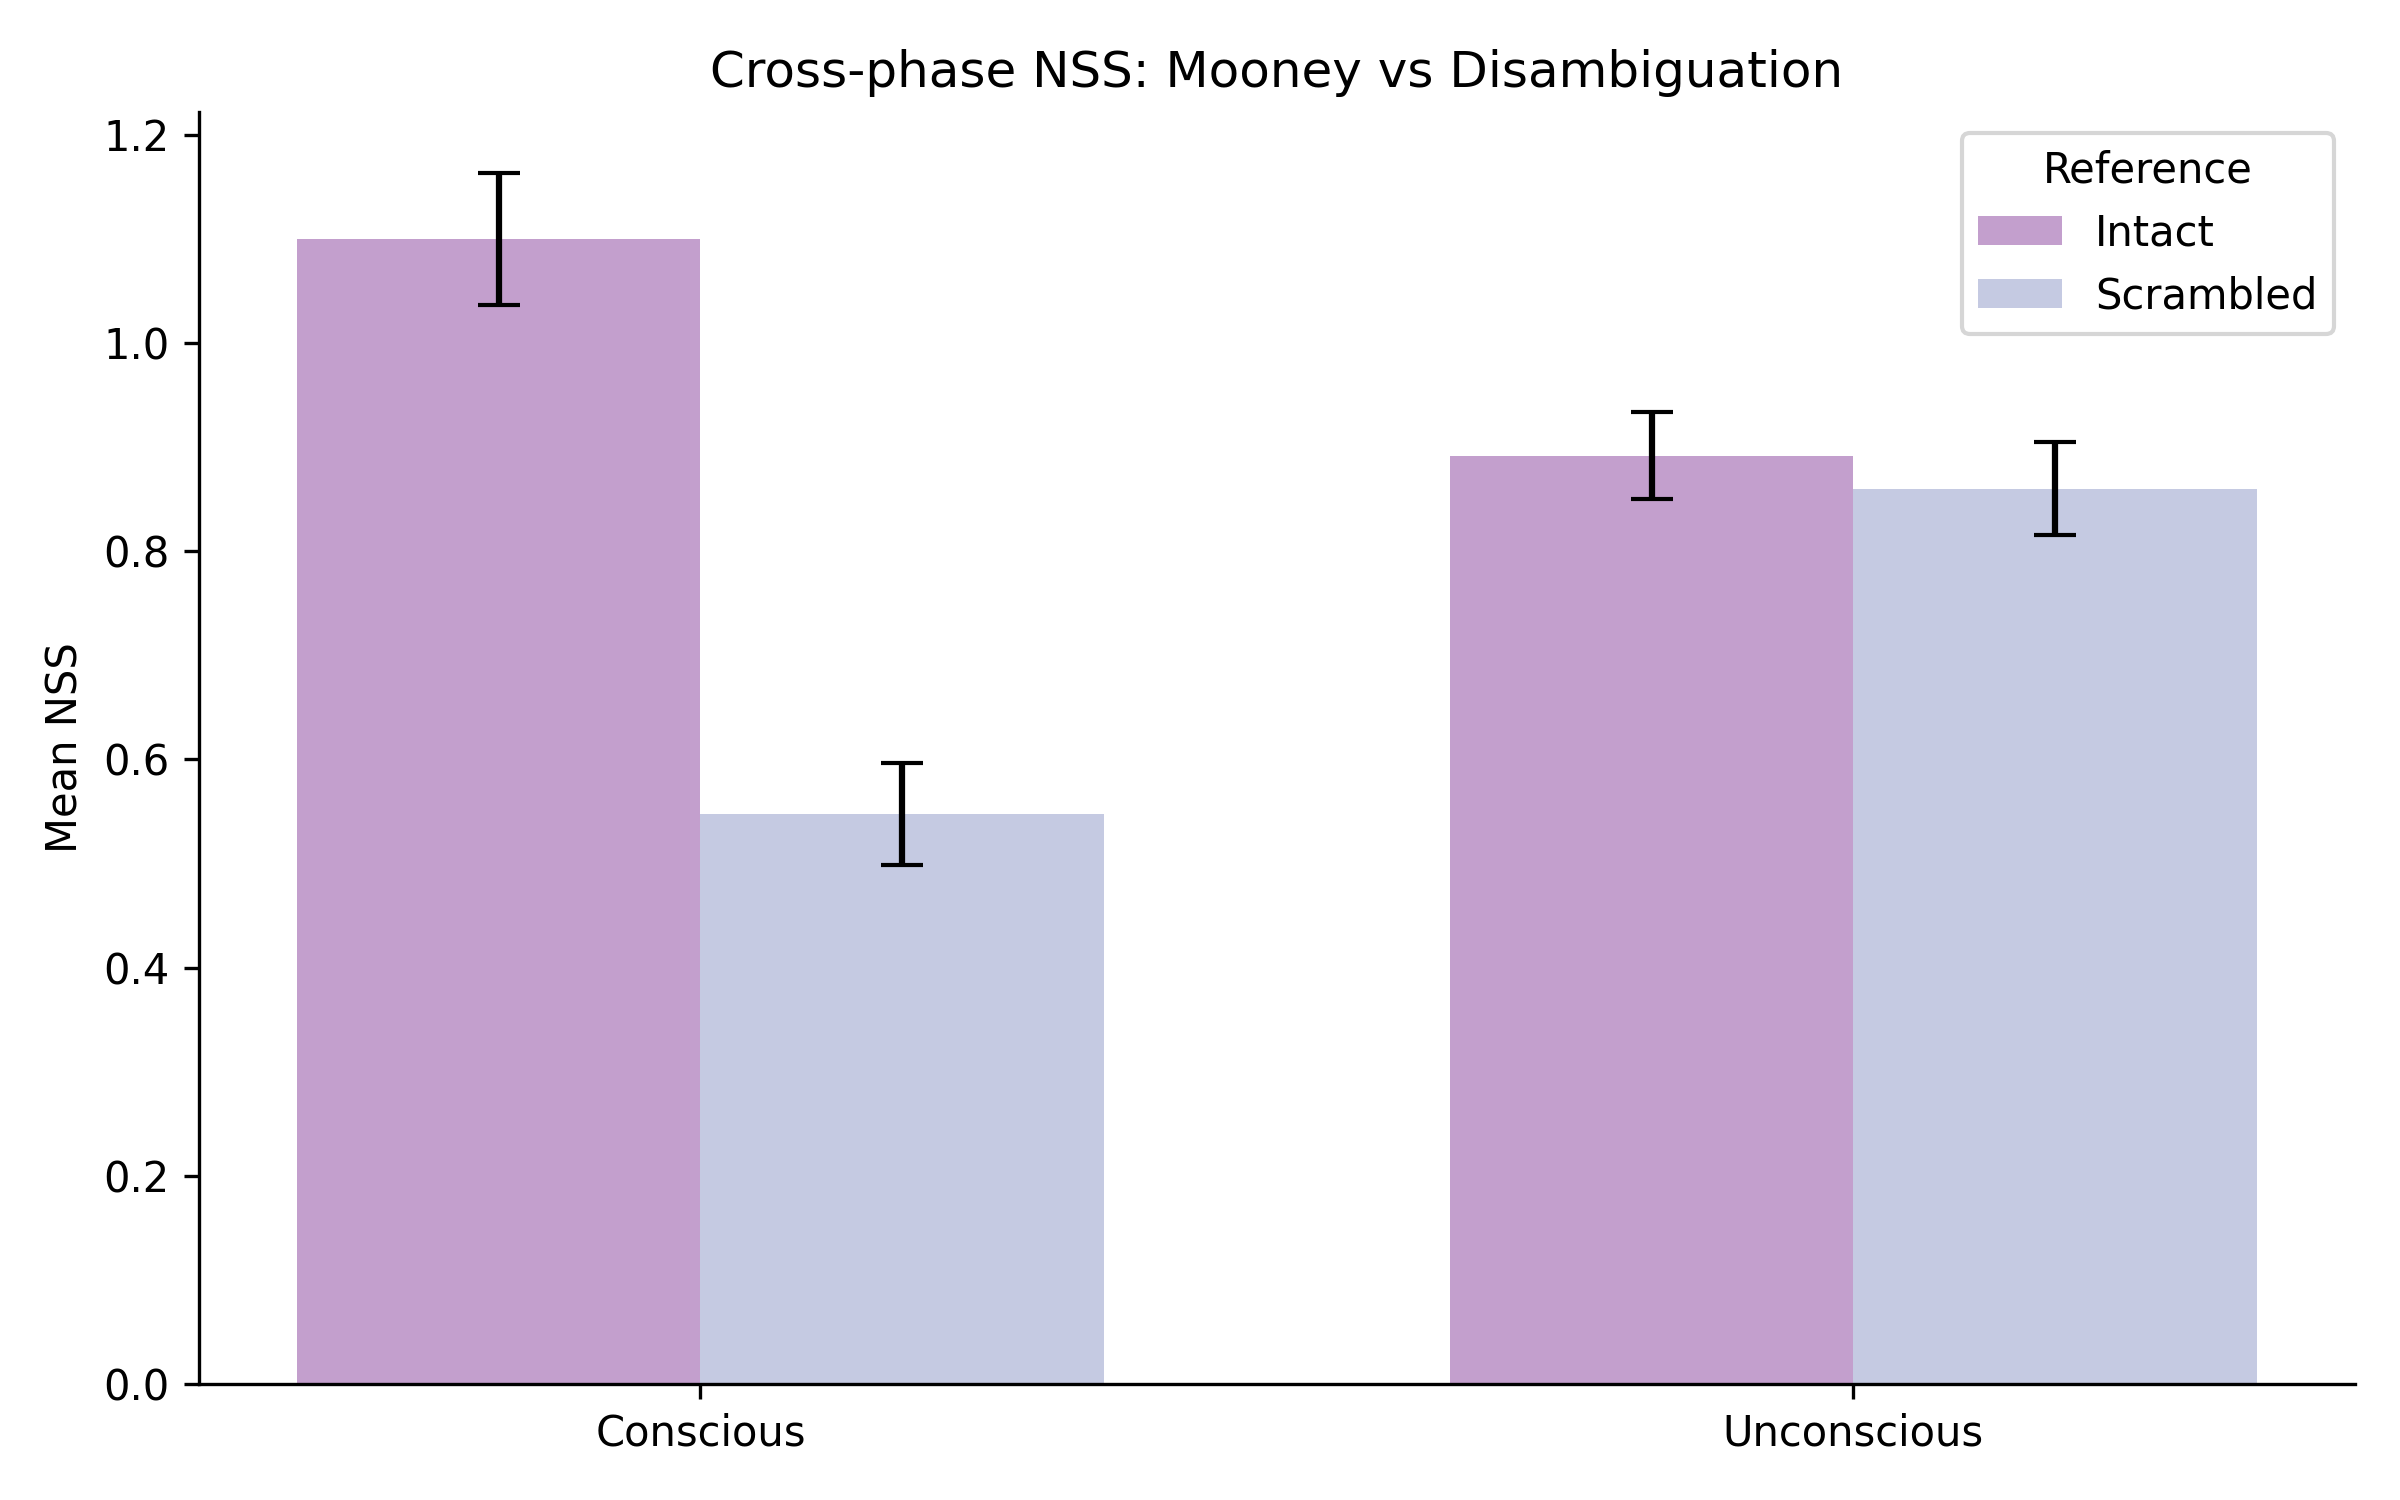
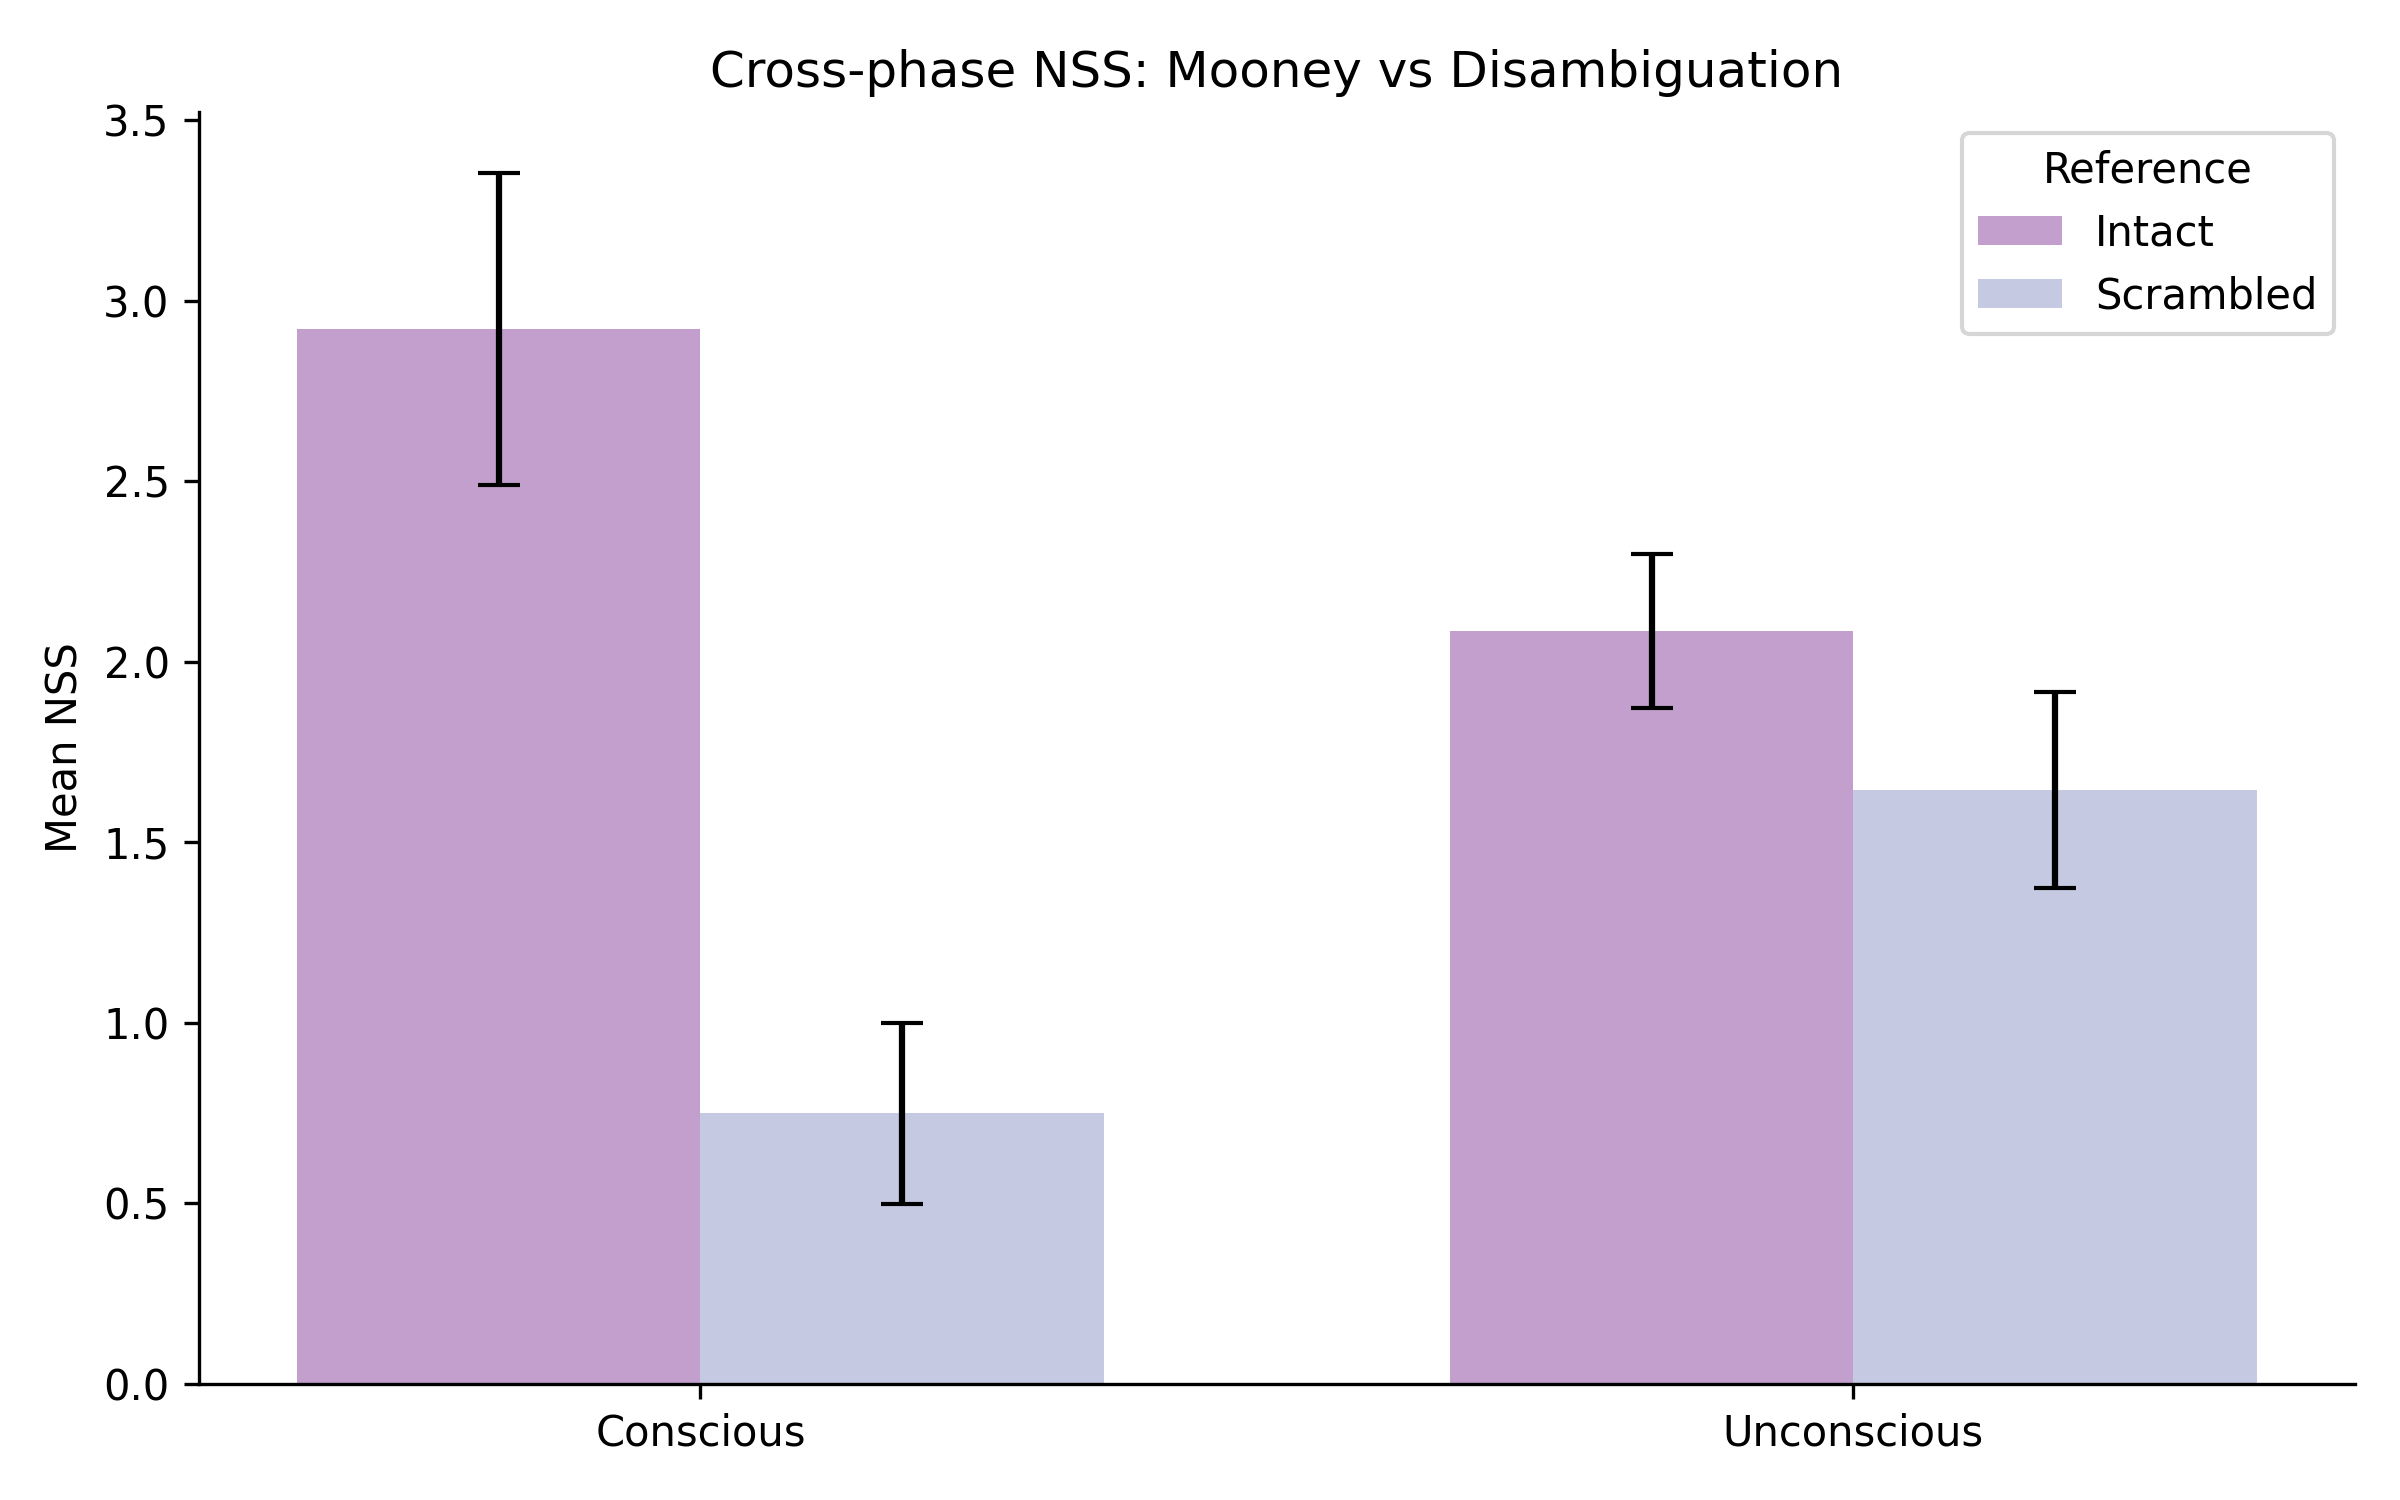
Update NSS analysis scripts, figures, and .gitignore
Add new ignore paths to .gitignore (analysesresults, Figures); replace two NSS analysis PNGs (regenerated figures). Insert small placeholder comment lines in NSSCrossPhase.py, NSSWithinPhase.py, NewNSSExporter.py, and NSSUtils.py. Change MASK_PPD in NSSUtils.py from a computed value (IMAGE_WIDTH / IMAGE_W_DEG) to a fixed constant 48.5548 to stabilize pixel-per-degree conversion. Also minor whitespace/formatting tweaks.

diff --git a/Scripts/Analysis/NSSUtils.py b/Scripts/Analysis/NSSUtils.py
@@ -1,3 +1,5 @@
+
+# new
 # Scripts/Analysis/NSSUtils.py
 
 """
@@ -42,7 +44,7 @@ FIGURES_DIR = Path("Figures/nss_analyses")
 IMAGE_HEIGHT = 600
 IMAGE_WIDTH  = 800
 IMAGE_W_DEG  = 9.99
-MASK_PPD     = IMAGE_WIDTH / IMAGE_W_DEG   # 80.08 px/deg
+MASK_PPD     = 48.5548  
 
 DEBUG = True
 

diff --git a/Scripts/Analysis/NSSCrossPhase.py b/Scripts/Analysis/NSSCrossPhase.py
@@ -1,3 +1,5 @@
+
+# new
 # Scripts/Analysis/NSSCrossPhase.py
 
 """

diff --git a/Scripts/Analysis/NSSWithinPhase.py b/Scripts/Analysis/NSSWithinPhase.py
@@ -1,3 +1,4 @@
+# new
 # Scripts/Analysis/NSSWithinPhase.py
 
 """

diff --git a/Scripts/Analysis/NewNSSExporter.py b/Scripts/Analysis/NewNSSExporter.py
@@ -1,3 +1,4 @@
+# new
 # Scripts/Analysis/NSSExporter.py
 
 """